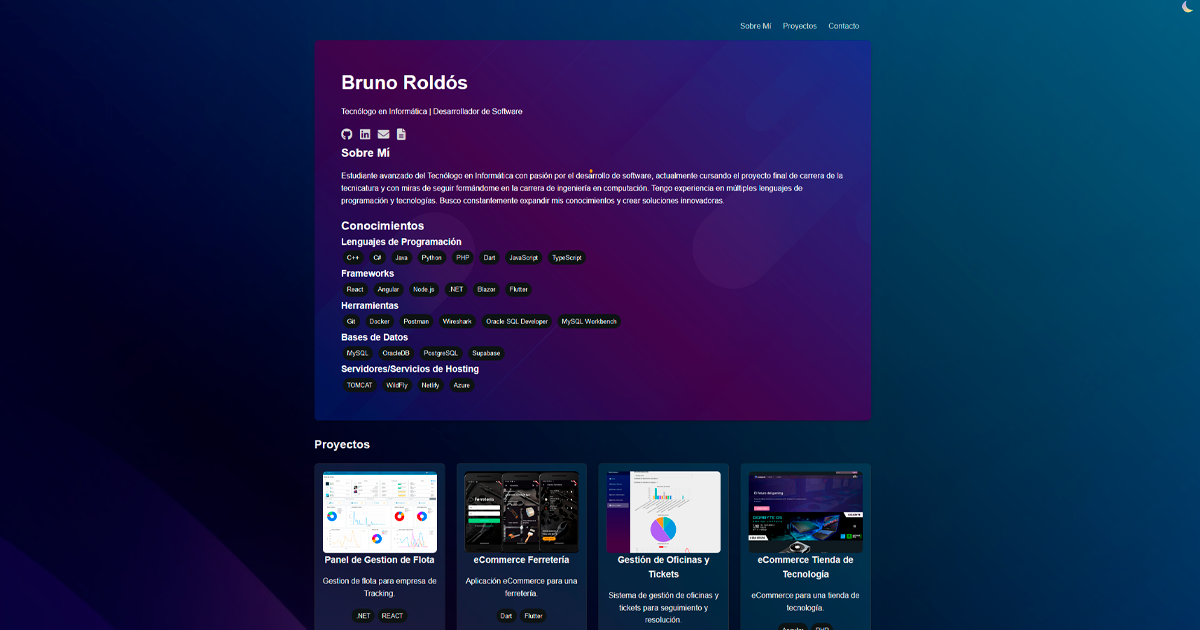
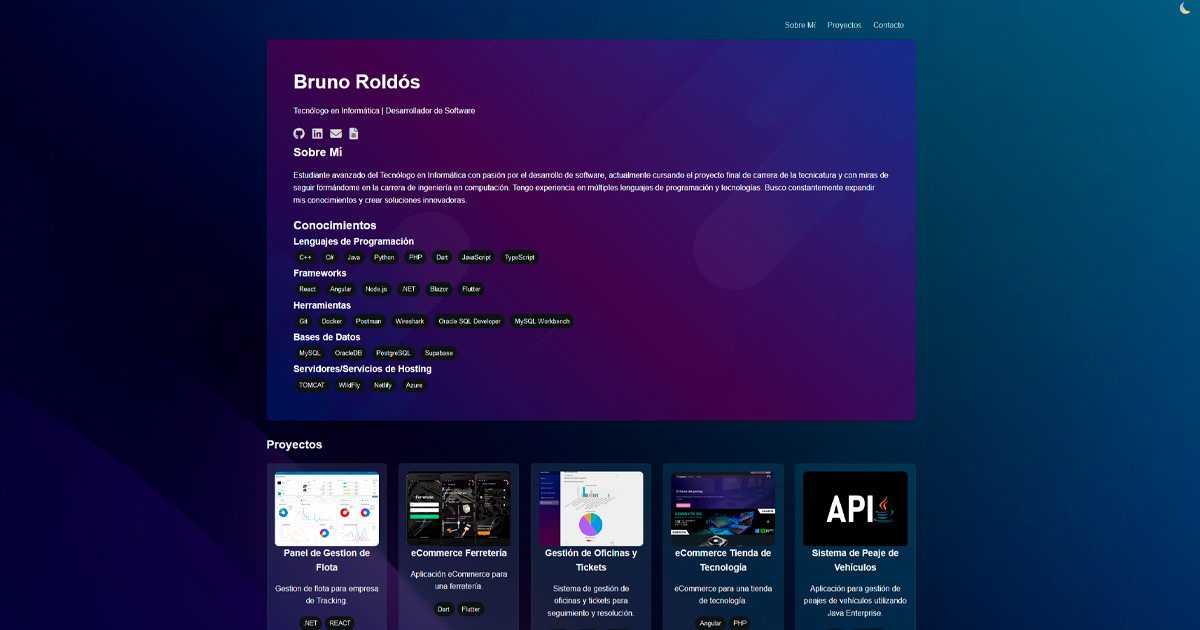
mejoras en estilos

Changed region(s): [[0.185, 0.0302, 0.7708, 1.0], [0.9867, 0.0, 1.0, 0.0302]]

diff --git a/project9.html b/project9.html
@@ -70,14 +70,16 @@
                     <div class="projects-grid ">
 
                         <article class="card " style="height: 1260px;">
-                            <p>El Modulo de Gestion de Flota es una solución integral para la gestión y visualización de
+
+                            <p class="break-word" style="max-width: 1205px; text-align: left;">
+                                El Modulo de Gestion de Flota es una solución integral para la gestión y
+                                visualización de
                                 datos clave
                                 relacionados con flotas de vehículos. Diseñado para brindar una comprensión rápida y
-                                precisa del estado de la flota y de sus conductores, el proyecto abarca las siguientes
+                                precisa del estado de la flota y de sus conductores, el proyecto abarca las
+                                siguientes
                                 funcionalidades principales:
                             </p>
-
-
 
                             <div class="carousel">
                                 <input type="radio" name="carousel-radio" id="slide1" class="carousel__radio" checked>
@@ -118,7 +120,7 @@
                                 </div>
                             </div>
 
-                            <ul style="text-align: left; margin: 16px;">
+                            <ul class="break-word" style="max-width: 1180px; text-align: left; margin: 16px;">
                                 <li>
                                     <strong>Visualización de Indicadores y Reportes:</strong> Permite analizar datos a
                                     través de gráficos

diff --git a/wwwroot/css/shared.css b/wwwroot/css/shared.css
@@ -16,7 +16,7 @@ body {
     font-family: Arial, sans-serif;
     line-height: 1.6;
     background-color: rgba(255, 255, 255, 0.005);
-    max-width: 1200px;
+    max-width: 1390px;
     margin: 0 auto;
     padding: 40px 20px 0;
     overflow: hidden;
@@ -169,8 +169,8 @@ ul .dropdown-content {
 
 .dark-mode-toggle{
     position: absolute;
-    top: 10px;
-    right: 10px;
+    top: 20px;
+    right: 20px;
     z-index: 1000;
 
 }
@@ -466,4 +466,10 @@ footer .help-sec {
 
 .social-icons a:hover {
     color: #007bff;
+}
+
+.break-word {
+    hyphens: auto; 
+    word-break: break-word;
+    overflow-wrap: break-word; 
 }

diff --git a/wwwroot/css/carousel.css b/wwwroot/css/carousel.css
@@ -1,7 +1,7 @@
 .carousel {
     position: relative;
     width: 100%;
-    max-width: 1200px;
+    max-width: 1390px;
     margin: auto;
     height: 1750px;
     overflow: hidden;
